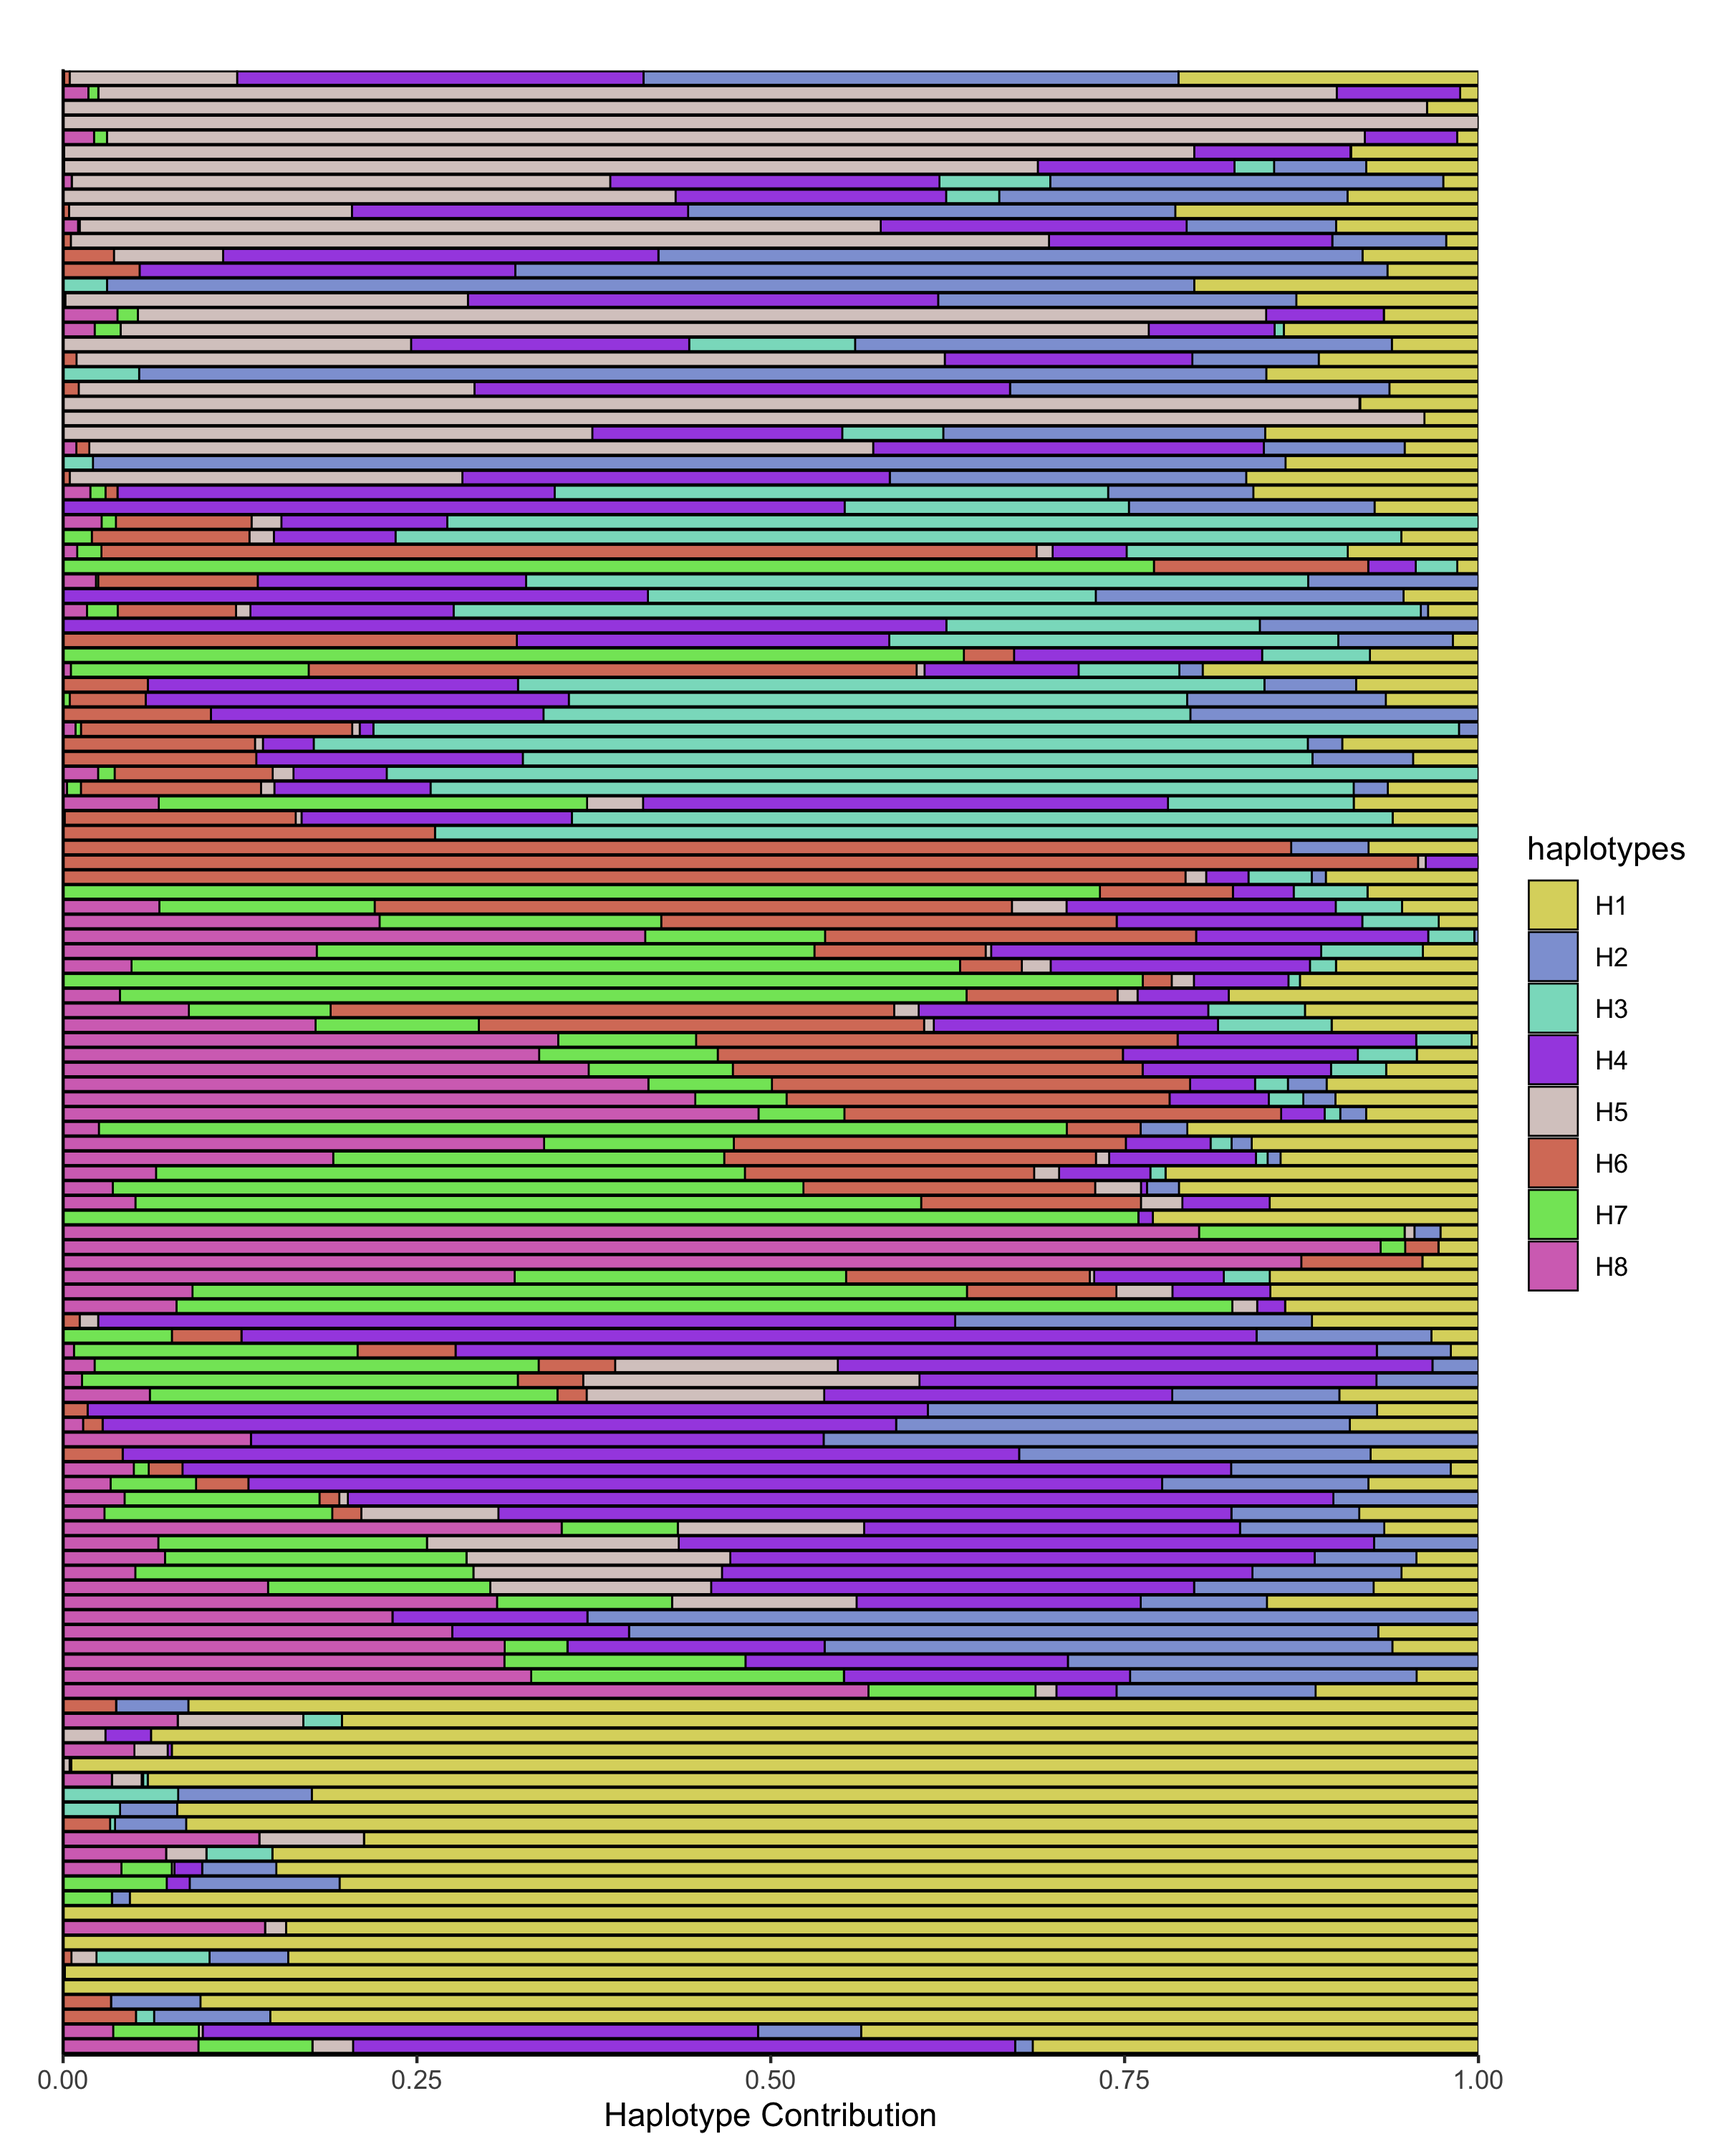
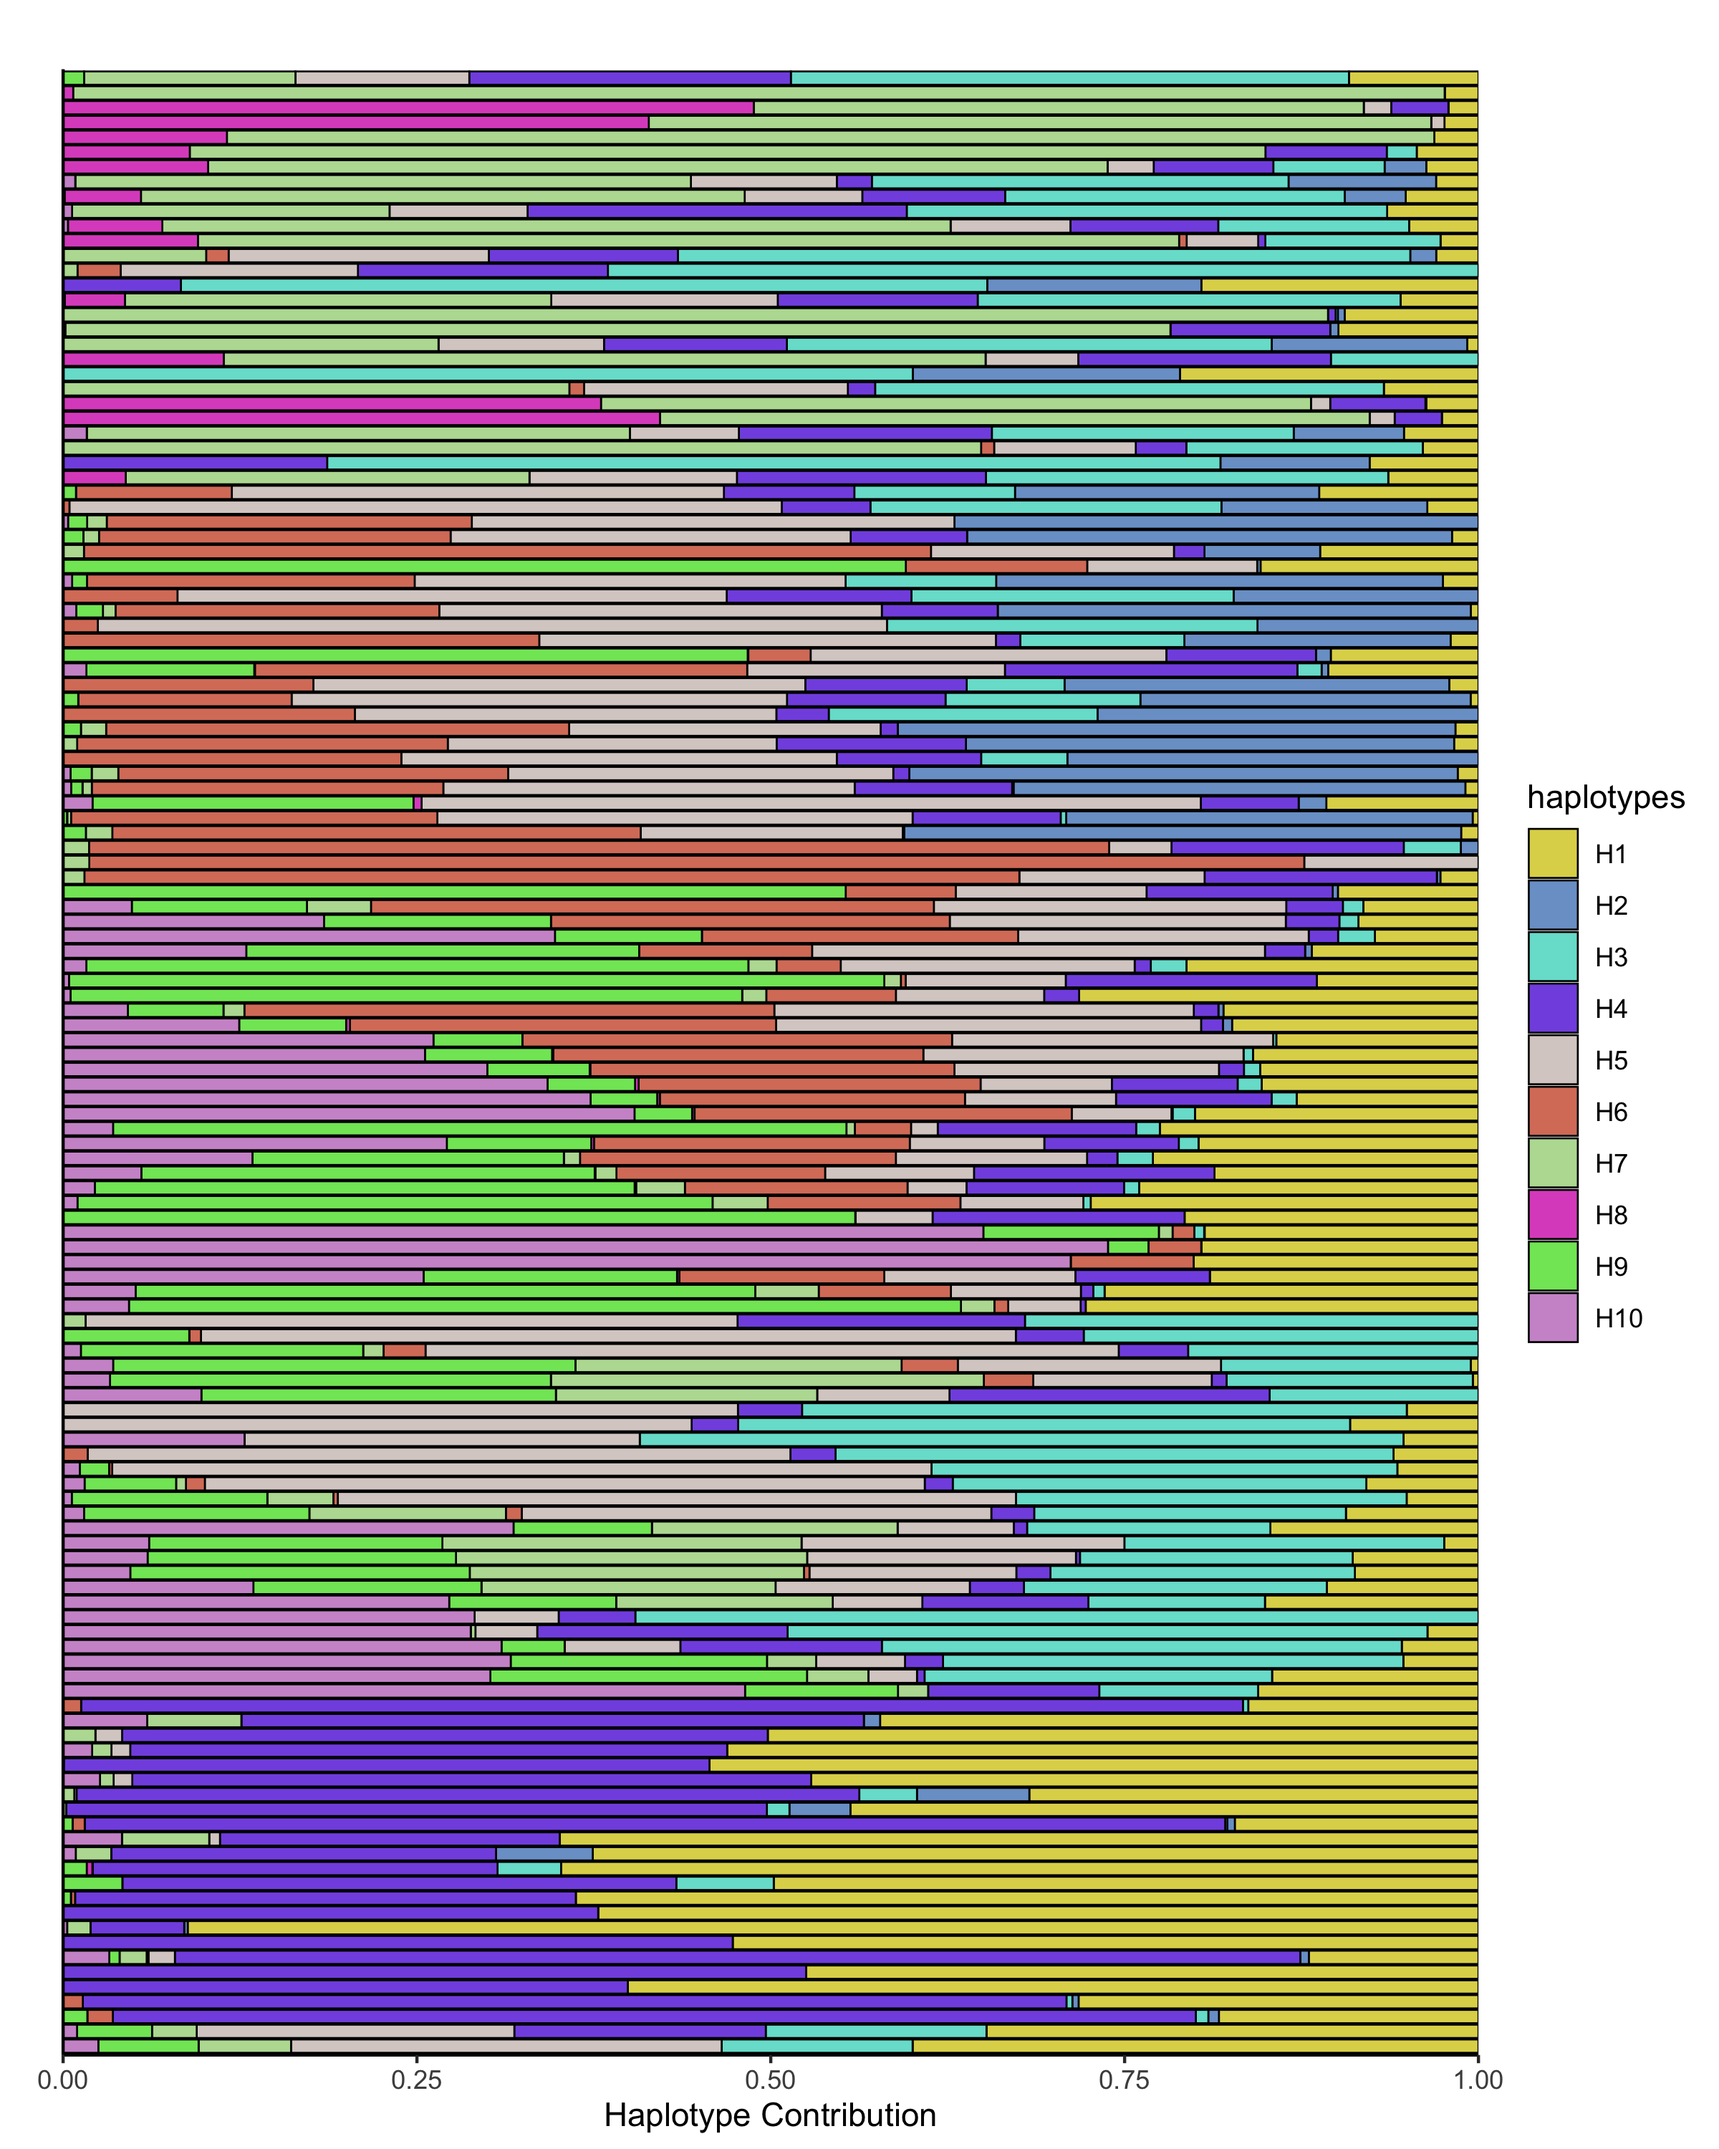
update figures

diff --git a/README.md b/README.md
@@ -95,7 +95,7 @@ Will evaluate 2 to 10 haplotypes and output a graphic similar to this:
 Based on this figure it seems not clear how many Haplotypes are in this sample.
 
 ```r
-decomposed <- findHaplotypes(omm, 8)
+decomposed <- findHaplotypes(omm, 10)
 plotHaplotypeMap(decomposed)
 ```
 
@@ -106,8 +106,8 @@ On this plot once can see which SNPs are contributing to a Haplotype,
 The result is a heatmap showing the SNPs (y axis) and the Haplotypes (i.e. the decomposed "signatures") on the x axis. Here we see that most SNPs are not part of a haplotype. 
 
 ```r
-plotSamples(decomposed, normalize = F, remove.sample.names =T)
-ggsave("decomposed_1.png", width = 8, height = 10)
+plotSamples(decomposed, normalize = F, remove.sample.names = T)
+ggsave("man/figures/decomposed_1.png", width = 8, height = 10)
 ```
 
 ![Decomposed contributions](man/figures/decomposed_1.png)
@@ -135,8 +135,8 @@ We can visualize the SNP annotations for each Haplotype
 
 ```r
 data(omm_snp_annotation)
-plotHaplotypeAnnotation(decomposed, omm_snp_annotation, hide_hyp = T, sig_threshold = 0.05)
-ggsave("haplotypefunction.png", width = 12, height = 12)
+plotHaplotypeAnnotation(decomposed, omm_snp_annotation, hide_hyp = T, sig_threshold = 0.1)
+ggsave("man/figures/haplotypefunction.png", width = 12, height = 12)
 ```
 
 ![by function](man/figures/haplotypefunction.png)
